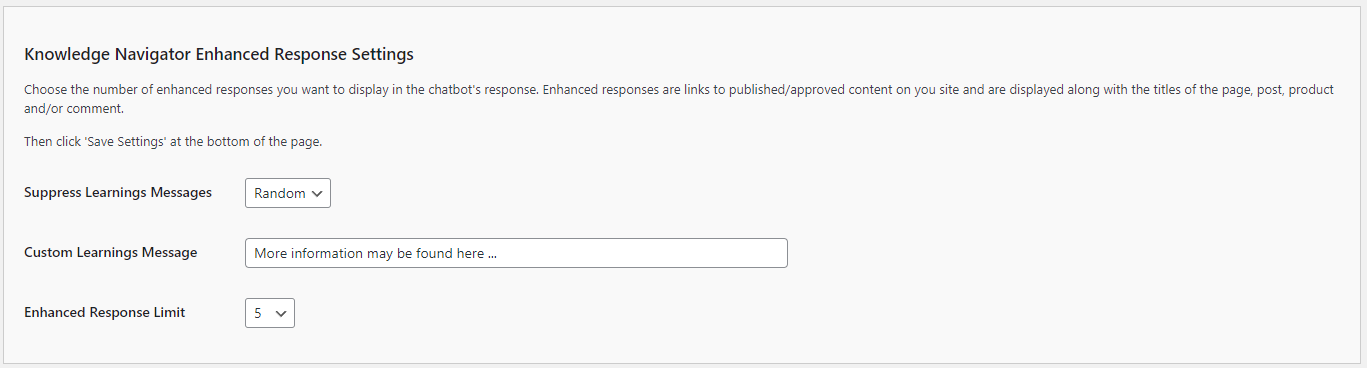
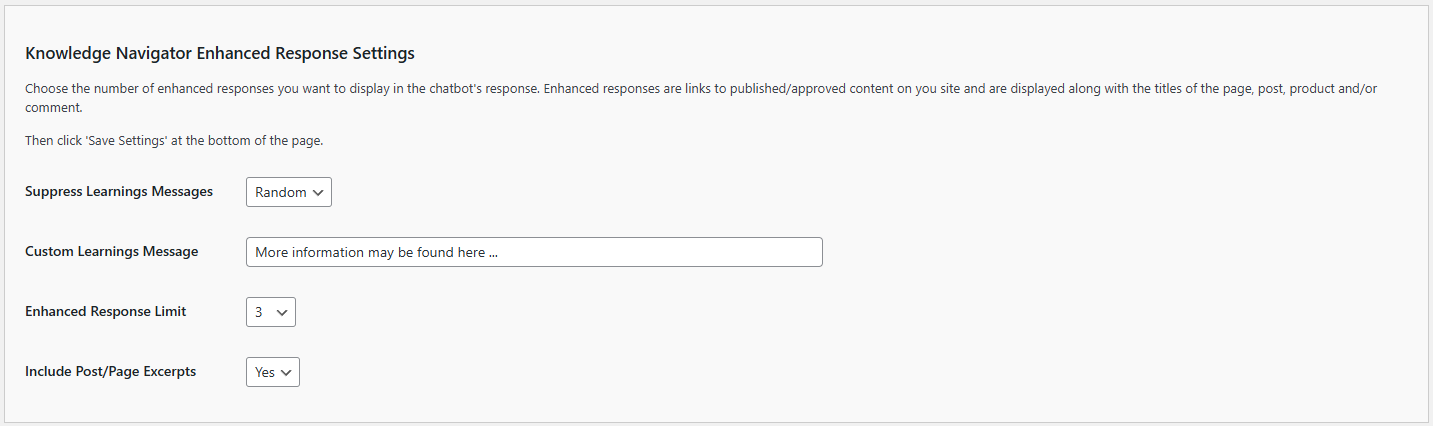
V2.2.1 - Working on the Anthropic API

diff --git a/includes/chatbot-shortcode.php b/includes/chatbot-shortcode.php
@@ -376,23 +376,41 @@ function chatbot_chatgpt_shortcode( $atts = [], $content = null, $tag = '' ) {
 
     // Validate and sanitize the model parameter - Ver 1.9.9
     if (!isset($atts['model'])) {
-        if (esc_attr(get_option('chatbot_nvidia_api_enabled')) == 'Yes') {
-            $model = esc_attr(get_option('chatbot_nvidia_model_choice', 'nvidia/llama-3.1-nemotron-51b-instruct'));
-        } else if (esc_attr(get_option('chatbot_markov_chain_api_enabled')) == 'Yes') {
-            $model = esc_attr(get_option('chatbot_markov_chain_model_choice', 'markov-chain-flask'));
-        } else if (esc_attr(get_option('chatbot_transformer_model_api_enabled')) == 'Yes') {
-            $model = esc_attr(get_option('chatbot_transformer_model_choice', 'sentential-context-model'));
-        } else {
-            $model = esc_attr(get_option('chatbot_chatgpt_model_choice', 'gpt-3.5-turbo'));
+
+        $chatbot_ai_platform_choice = esc_attr(get_option('chatbot_ai_platform_choice', 'openai'));
+        // DIAG - Diagnostics - Ver 2.2.1
+        back_trace( 'NOTICE', 'chatbot_ai_platform_choice: ' . $chatbot_ai_platform_choice);
+
+        switch ($chatbot_ai_platform_choice) {
+            case 'OpenAI':
+                $model = esc_attr(get_option('chatbot_chatgpt_model_choice', 'gpt-3.5-turbo'));
+                break;
+            case 'NVIDIA':
+                $model = esc_attr(get_option('chatbot_nvidia_model_choice', 'nvidia/llama-3.1-nemotron-51b-instruct'));
+                break;
+            case 'Anthropic':
+                $model = esc_attr(get_option('chatbot_anthropic_model_choice', 'claude-3-5-sonnet-latest'));
+                break;
+            case 'Markov Chain':
+                $model = esc_attr(get_option('chatbot_markov_chain_model_choice', 'markov-chain-flask'));
+                break;
+            case 'Transformer':
+                $model = esc_attr(get_option('chatbot_transformer_model_choice', 'lexical-context-model'));
+                break;
+            default:
+                $model = esc_attr(get_option('chatbot_chatgpt_model_choice', 'gpt-3.5-turbo'));
         }
+
         $kchat_settings['model'] = $model;
         $kchat_settings['chatbot_chatgpt_model_choice'] = $model;
         $assistant_details['model'] = $model;
         $assistant_details['chatbot_chatgpt_model_choice'] = $model;
         $kchat_settings['model'] = $model;
         $kchat_settings['chatbot_chatgpt_model_choice'] = $model;
-        // back_trace( 'NOTICE', 'Model (defaulting): ' . $model);
+        back_trace( 'NOTICE', 'LINE 410 - Model (defaulting): ' . $model);
+
     } else {
+
         $model = sanitize_text_field($atts['model']);
         $kchat_settings['model'] = $model;
         $kchat_settings['chatbot_chatgpt_model_choice'] = $model;
@@ -400,7 +418,8 @@ function chatbot_chatgpt_shortcode( $atts = [], $content = null, $tag = '' ) {
         $assistant_details['chatbot_chatgpt_model_choice'] = $model;
         $kchat_settings['model'] = $model;
         $kchat_settings['chatbot_chatgpt_model_choice'] = $model;
-        // back_trace( 'NOTICE', 'Model: ' . $model);
+        back_trace( 'NOTICE', 'LINE 421 Model (paramater): ' . $model);
+
     }
 
     // Validate and sanitize the voice parameter - Ver 1.9.9

diff --git a/includes/knowledge-navigator/chatbot-kn-enhance-response.php b/includes/knowledge-navigator/chatbot-kn-enhance-response.php
@@ -140,17 +140,8 @@ function chatbot_chatgpt_enhance_with_tfidf($message) {
     // Option - Include Title in Enhanced Response
     $include_title = esc_attr(get_option('chatbot_chatgpt_enhanced_response_include_title', 'yes'));
 
-    // Check if function ksum_generate_ai_summary exists
-    if (!function_exists('ksum_generate_ai_summary')) {
-
-        $include_ai_summary = 'No';
-
-    } else {
-
-        // Determine if AI summary should be included - Ver 2.2.1
-        $include_ai_summary = esc_attr(get_option('chatbot_chatgpt_enhanced_response_include_ai_summary', 'No'));
-
-    }
+    // Decide if the links to site content and exceprts should be included in the response
+    $include_post_or_page_excerpt = esc_attr(get_option('chatbot_chatgpt_enhanced_response_include_excerpts', 'No'));
 
     foreach ($results as $result) {
 
@@ -165,16 +156,23 @@ function chatbot_chatgpt_enhance_with_tfidf($message) {
         }
 
         // DIAG - Diagnostics - Ver 2.2.1
-        // back_trace( 'NOTICE', '$include_ai_summary: ' . $include_ai_summary );
+        // back_trace( 'NOTICE', '$include_post_or_page_excerpt: ' . $include_post_or_page_excerpt );
 
-        if ($include_ai_summary == 'Yes') {
+        if ($include_post_or_page_excerpt == 'Yes') {
 
             // DIAG - Diagnostics - Ver 2.2.1
             // back_trace( 'NOTICE', 'Generating AI summary for $result[pid]: ' . $result['pid'] );
 
-            $ai_summary = ksum_generate_ai_summary($result['pid']);
-            if (!empty($ai_summary)) {
-                $links[] = "<li>" . $ai_summary . "</li>";
+            // $ai_summary = ksum_generate_ai_summary($result['pid']);
+            // if (!empty($ai_summary)) {
+            //     $links[] = "<li>" . $ai_summary . "</li>";
+            // }
+
+            // Fetch the post or page excerpt
+            $post_excerpt = get_the_excerpt($result['pid']);
+
+            if (!empty($post_excerpt)) {
+                $links[] = "<li>" . $post_excerpt . "</li>";
             }
 
             // DIAG - Diagnostics - Ver 2.2.1

diff --git a/includes/chatbot-call-openai-api-assistant.php b/includes/chatbot-call-openai-api-assistant.php
@@ -941,14 +941,27 @@ function chatbot_chatgpt_custom_gpt_call_api($api_key, $message, $assistant_id, 
     update_interaction_tracking();
 
     // Remove citations from the response
-    $assistants_response["data"][0]["content"][0]["text"]["value"] = preg_replace('/\【.*?\】/', '', $assistants_response["data"][0]["content"][0]["text"]["value"]);
+    if (isset($assistants_response["data"][0]["content"][0]["text"]["value"])) {
+        $assistants_response["data"][0]["content"][0]["text"]["value"] = preg_replace('/\【.*?\】/', '', $assistants_response["data"][0]["content"][0]["text"]["value"]);
+    }
 
     // Check for missing $thread_id in $kchat_settings
     if (!isset($kchat_settings['thread_id'])) {
         $kchat_settings['thread_id'] = $thread_id;
     }
 
-    return $assistants_response["data"][0]["content"][0]["text"]["value"];
+    // DIAG - Diagnostics - Ver 2.2.1
+    // back_trace('NOTICE', '$assistants_response: ' . print_r($assistants_response, true));
+
+    // Return the response text, checking for the fallback content[1][text] if available
+    if (isset($assistants_response["data"][0]["content"][1]["text"]["value"])) {
+        return $assistants_response["data"][0]["content"][1]["text"]["value"];
+    } elseif (isset($assistants_response["data"][0]["content"][0]["text"]["value"])) {
+        return $assistants_response["data"][0]["content"][0]["text"]["value"];
+    } else {
+        // Return a default value or an empty string if none exist
+        return '';
+    }
 
 }
 

diff --git a/includes/settings/chatbot-settings-registration-kn.php b/includes/settings/chatbot-settings-registration-kn.php
@@ -120,7 +120,7 @@ function chatbot_chatgpt_kn_settings_init() {
     register_setting('chatbot_chatgpt_knowledge_navigator', 'chatbot_chatgpt_suppress_learnings');
     register_setting('chatbot_chatgpt_knowledge_navigator', 'chatbot_chatgpt_custom_learnings_message');
     register_setting('chatbot_chatgpt_knowledge_navigator', 'chatbot_chatgpt_enhanced_response_limit');
-    register_setting('chatbot_chatgpt_knowledge_navigator', 'chatbot_chatgpt_enhanced_response_include_ai_summary');
+    register_setting('chatbot_chatgpt_knowledge_navigator', 'chatbot_chatgpt_enhanced_response_include_excerpts');
 
     add_settings_section(
         'chatbot_chatgpt_kn_enhanced_response_section',
@@ -149,6 +149,14 @@ function chatbot_chatgpt_kn_settings_init() {
         'chatbot_chatgpt_enhanced_response_limit',
         'Enhanced Response Limit',
         'chatbot_chatgpt_enhanced_response_limit_callback',
+        'chatbot_chatgpt_kn_enhanced_response',
+        'chatbot_chatgpt_kn_enhanced_response_section'
+    );
+
+    add_settings_field(
+        'chatbot_chatgpt_enhanced_response_include_excerpts',
+        'Include Post/Page Excerpts',
+        'chatbot_chatgpt_enhanced_response_include_excerpts_callback',
         'chatbot_chatgpt_kn_enhanced_response',
         'chatbot_chatgpt_kn_enhanced_response_section'
     );

diff --git a/includes/knowledge-navigator/chatbot-kn-settings.php b/includes/knowledge-navigator/chatbot-kn-settings.php
@@ -307,3 +307,14 @@ function chatbot_chatgpt_custom_learnings_message_callback($args) {
     <input type="text" style="width: 50%;" id="chatbot_chatgpt_custom_learnings_message" name = "chatbot_chatgpt_custom_learnings_message" value="<?php echo esc_attr( $chatbot_chatgpt_custom_learnings_message ); ?>">
     <?php
 }
+
+// Optionally include post or page excerpts with Knowledge Navigator responses - Ver 2.2.1
+function chatbot_chatgpt_enhanced_response_include_excerpts_callback() {
+    $value = esc_attr(get_option('chatbot_chatgpt_enhanced_response_include_excerpts', 'No'));
+    ?>
+    <select id="chatbot_chatgpt_enhanced_response_include_excerpts" name="chatbot_chatgpt_enhanced_response_include_excerpts">
+        <option value="No" <?php selected( $value, 'No' ); ?>><?php echo esc_html( 'No' ); ?></option>
+        <option value="Yes" <?php selected( $value, 'Yes' ); ?>><?php echo esc_html( 'Yes' ); ?></option>
+    </select>
+    <?php
+}

diff --git a/chatbot-chatgpt.php b/chatbot-chatgpt.php
@@ -722,7 +722,7 @@ function chatbot_chatgpt_send_message() {
 
         case 'OpenAI':
 
-            $api_key = esc_attr(get_option('chatbot_openai_api_key'));
+            $api_key = esc_attr(get_option('chatbot_chatgpt_api_key'));
             $model = esc_attr(get_option('chatbot_chatgpt_model_choice', 'gpt-4-1106-preview'));
             $kchat_settings['chatbot_chatgpt_model'] = $model;
             $kchat_settings['model'] = $model;

diff --git a/documentation/knowledge-navigator/knowledge-navigator-enhanced-response-settings.md b/documentation/knowledge-navigator/knowledge-navigator-enhanced-response-settings.md
@@ -22,6 +22,11 @@ The Enhanced Response settings allow you to customize how additional information
    - **Options**: A numeric value between `1` and `10` items (the default is 3).
    - **Selection**: Choose a number based on how much supplementary content you want to provide without overwhelming the user.
 
+4. **Include Post/Page Excerpts**:
+   - **Decription**: This setting determines if post or page excerpts are include with any learning messages.
+   - **Options**: `Yes` to return post or page excerpts with learning messages, `No` (default) to exclude excerpts.
+   - **Selection**: Choose the option that best fist your content strategy and user engagement goals.
+
 ## Steps to Configure
 
 1. Navigate to the Knowledge Navigator Enhanced Response Settings section of the Kognetiks Chatbot plugin in your WordPress dashboard.
@@ -32,7 +37,9 @@ The Enhanced Response settings allow you to customize how additional information
 
 4. Set the `Enhanced Response Limit` to the number of enhanced responses you want to display with each chatbot interaction.
 
-5. Click 'Save Settings' to apply your changes.
+5. Set the `Include Post/Page Excerpts` dropdown to the desired option (`Yes` or `No`).
+
+6. Click 'Save Settings' to apply your changes.
 
 ## Tips
 
